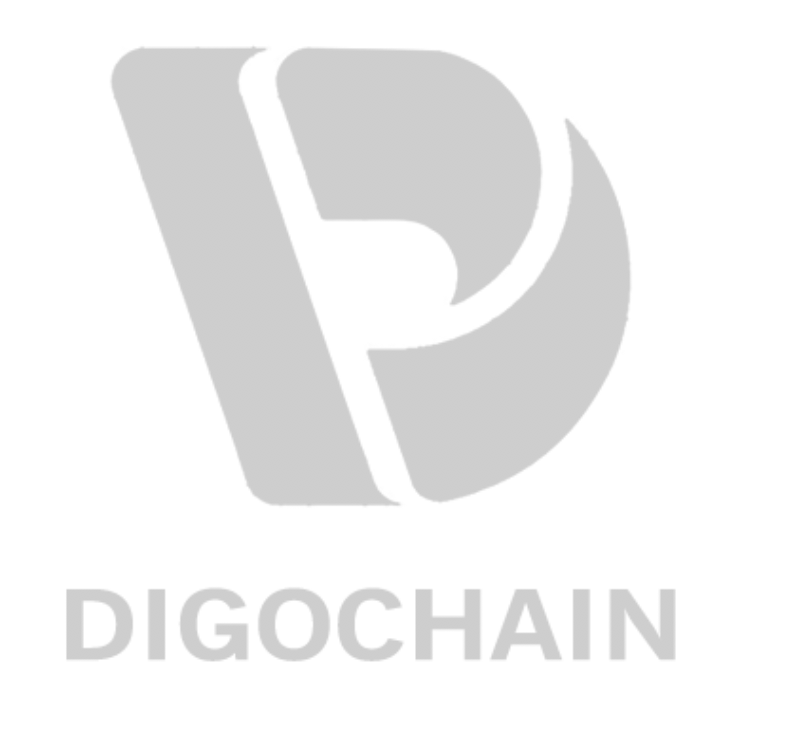
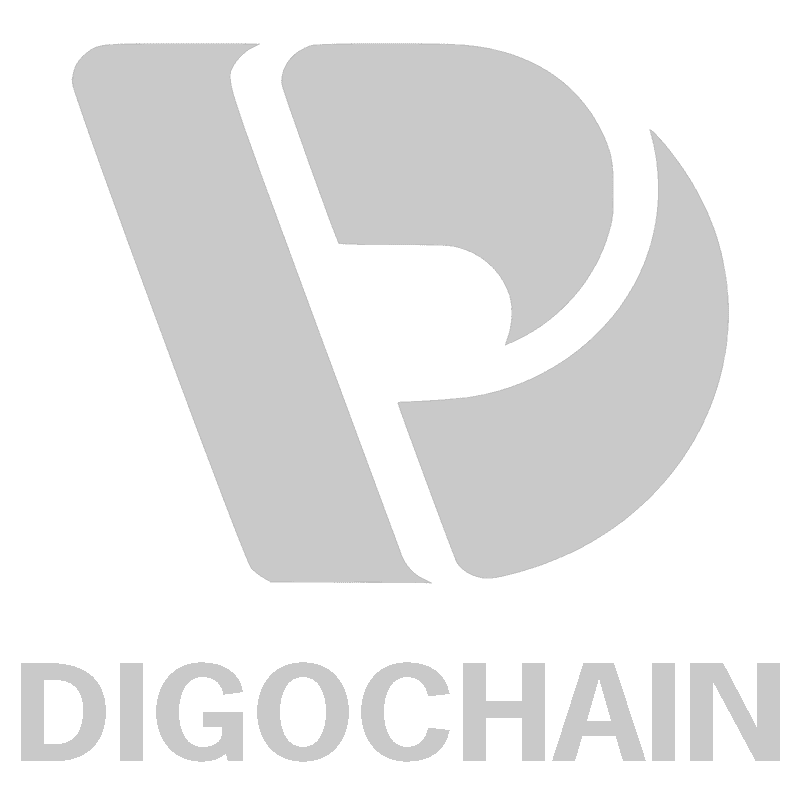
解决全屏模式无法弹窗且变黑屏问题；更换水印

diff --git a/components/kline/period_bar.vue b/components/kline/period_bar.vue
@@ -99,7 +99,7 @@ var fullScreen = ref(isFullscreen());
 
 function enterFullscreen() {
   if(!process.client)return;
-  let elem = (period_bar.value.parentElement as any);
+  let elem = (period_bar.value.parentElement.parentElement as any);
   if (elem.requestFullscreen) {
     elem.requestFullscreen();
   } else if (elem.mozRequestFullScreen) { /* Firefox */

diff --git a/pages/kline.vue b/pages/kline.vue
@@ -79,7 +79,7 @@ let loading = false
 
 const styles = reactive({})
 
-const watermark = ref('<img width="504" src="/watermark.png"/>')
+const watermark = ref('<img width="432" src="/watermark.png"/>')
 const datafeed = new MyDatafeed()
 
 const symbol = reactive<SymbolInfo>(datafeed.getDefaultSymbol())
